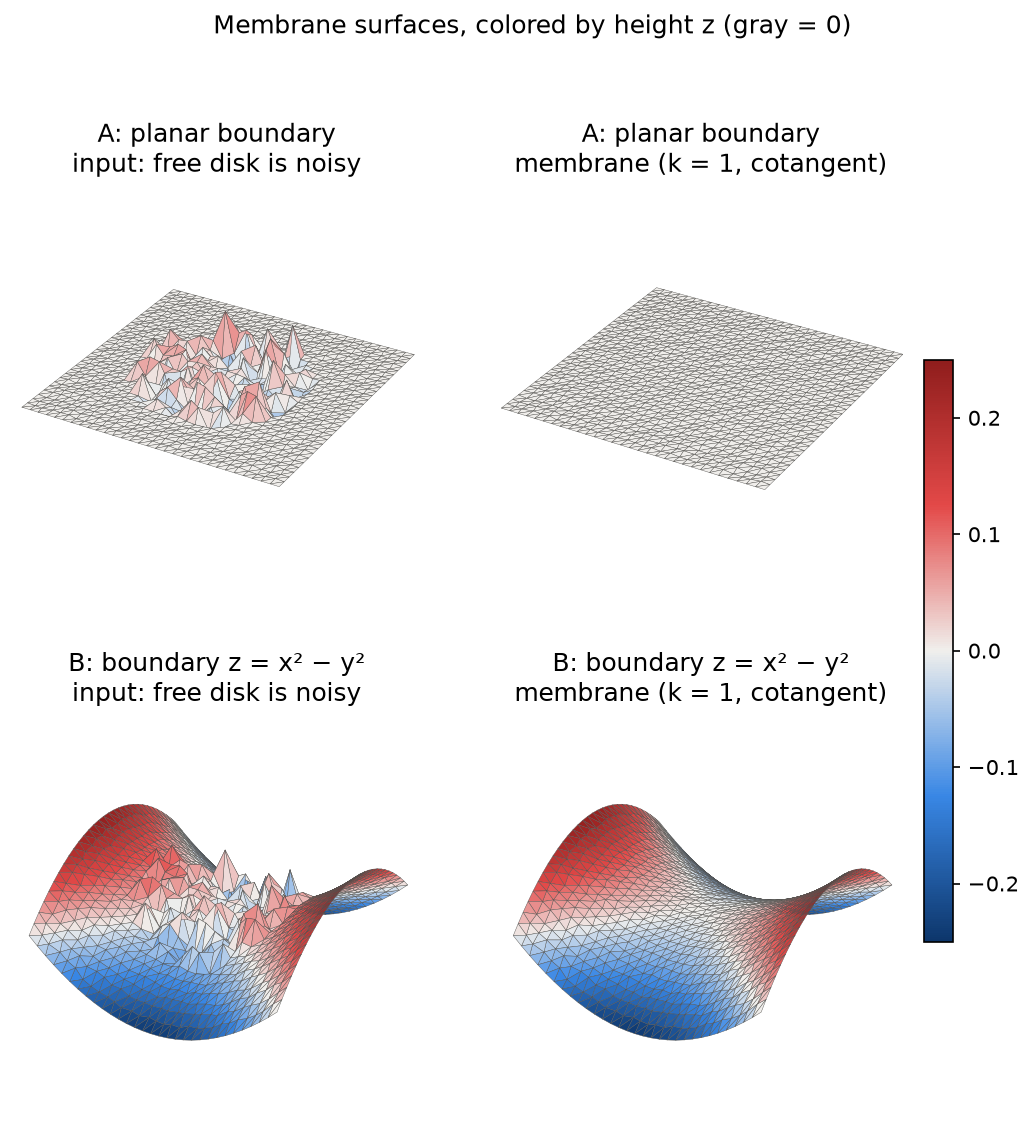
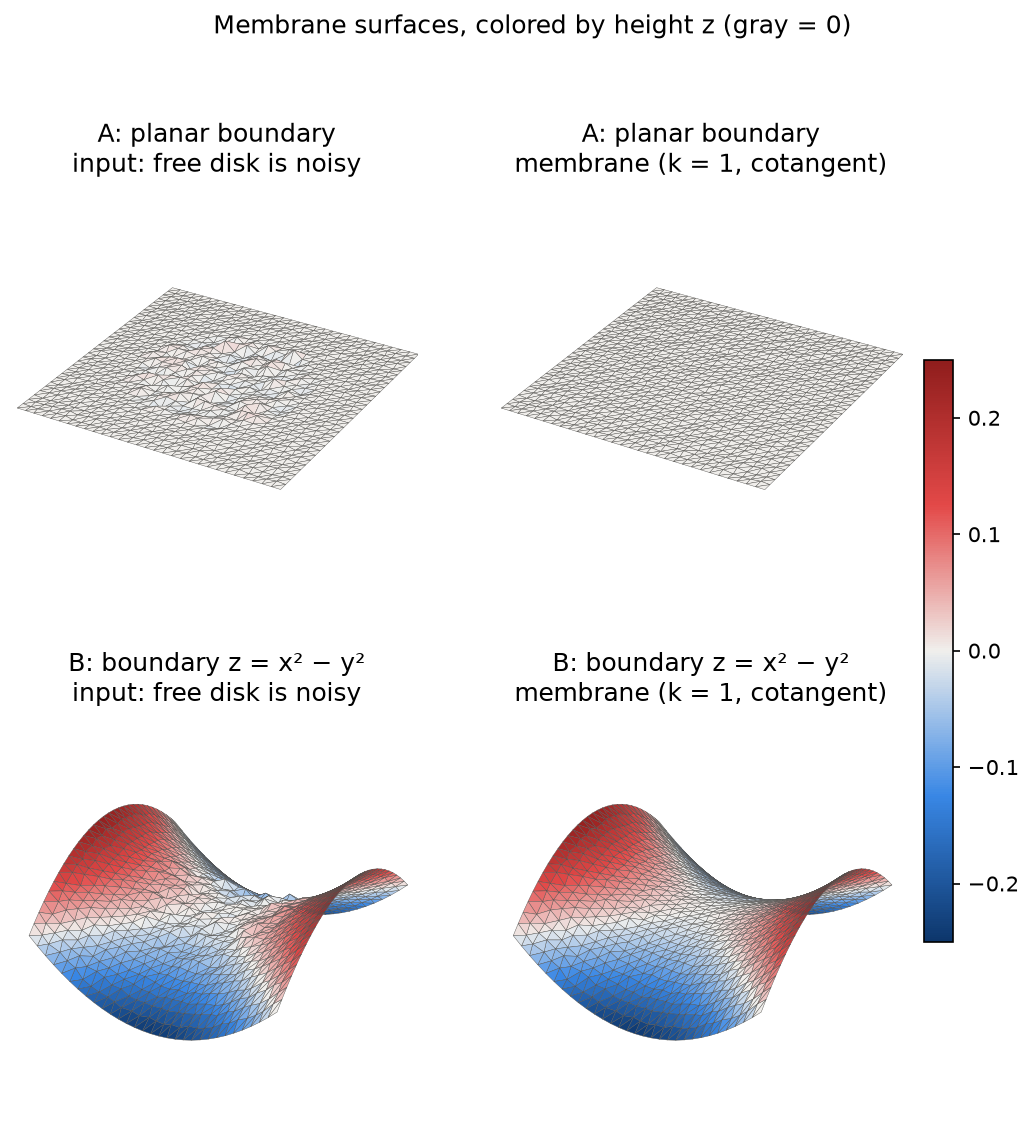
Remove V_ref; test case B against the right reference for each Laplacian (#10)
Uniform weights approximate the linearized membrane (Eq. 4.8) and converge to
x^2 - y^2; cotangent weights frozen from a smooth start approximate the minimal
surface (Eq. 4.7, H -> 0), which differs from x^2 - y^2 by a fixed gap.

diff --git a/examples/04_fairing.py b/examples/04_fairing.py
@@ -5,7 +5,7 @@ Run from the repository root:
     python examples/04_fairing.py
 
 Saves docs/img/09-sparsity.png, docs/img/10-membrane.png and
-docs/img/10-convergence.png.
+docs/img/10-two-membranes.png.
 """
 
 from pathlib import Path
@@ -19,6 +19,7 @@ from matplotlib.ticker import NullFormatter
 
 from fairing import mesh, viz
 from fairing.fairing import fairing_matrix, solve_fair
+from fairing.laplacian import mean_curvature
 
 IMG = Path(__file__).resolve().parents[1] / "docs" / "img"
 
@@ -49,17 +50,16 @@ def figure_sparsity():
 
 
 def disk_problem(n, heights, interior_noise, seed=0):
-    """Irregular grid on [-0.5, 0.5]^2; the disk of radius 0.3 is free.
+    """Irregular grid on [-0.5, 0.5]^2 whose disk of radius 0.3 is free.
 
-    Constrained vertices get z = heights(x, y); free ones start there plus noise.
-    Also returns the flat reference (z = 0) used to build the cotangent weights.
+    Every vertex gets z = heights(x, y); the free ones also get noise.
     """
-    V_ref, F = mesh.irregular_grid(n, n, jitter=0.15, seed=seed)
-    free = np.linalg.norm(V_ref[:, :2], axis=1) < 0.3
-    V = V_ref.copy()
+    V, F = mesh.irregular_grid(n, n, jitter=0.15, seed=seed)
+    r = np.linalg.norm(V[:, :2], axis=1)
+    free = r < 0.3
     V[:, 2] = heights(V[:, 0], V[:, 1])
     V[free, 2] += np.random.default_rng(seed).normal(0, interior_noise, free.sum())
-    return V, V_ref, F, free
+    return V, F, free, r
 
 
 flat = lambda x, y: 0 * x
@@ -69,9 +69,9 @@ saddle = lambda x, y: x**2 - y**2                    # harmonic in the plane
 def figure_membrane():
     """Issue #10: k = 1 with a planar boundary (case A) and a harmonic boundary (case B)."""
     meshes, scalars, titles = [], [], []
-    for name, heights, noise in (("A: planar boundary", flat, 0.05), ("B: boundary z = x² − y²", saddle, 0.05)):
-        V, V_ref, F, free = disk_problem(31, heights, noise)
-        W = solve_fair(V, F, free, 1, "cotan", V_ref=V_ref)
+    for name, heights in (("A: planar boundary", flat), ("B: boundary z = x² − y²", saddle)):
+        V, F, free, _ = disk_problem(31, heights, interior_noise=0.01)
+        W = solve_fair(V, F, free, 1, "cotan")
         meshes += [(V, F), (W, F)]
         scalars += [V[:, 2], W[:, 2]]
         titles += [f"{name}\ninput: free disk is noisy", f"{name}\nmembrane (k = 1, cotangent)"]
@@ -81,39 +81,53 @@ def figure_membrane():
     print("saved", IMG / "10-membrane.png")
 
 
-def figure_convergence():
-    """Issue #10: error of the harmonic case B as the grid is refined."""
+def figure_two_membranes():
+    """Issue #10: case B with uniform vs cotangent weights, as the grid is refined.
+
+    Left: distance to the harmonic graph z = x^2 - y^2 (the answer of Eq. 4.8 over the flat
+    (x, y) domain). Right: mean |H| (0 for the minimal surface of Eq. 4.7).
+    """
     ns = [11, 21, 41, 81, 161]
-    runs = [("cotangent, L from the flat reference", "cotan", True, "#1c5cab"),
-            ("uniform", "uniform", True, "#86b6ef"),
-            ("cotangent, L from the noisy input", "cotan", False, "#eb6834")]
     h = 1 / (np.array(ns) - 1)
-    fig, ax = plt.subplots(figsize=(6.4, 4.6))
-    for label, laplacian, use_ref, color in runs:
-        errors = []
+    runs = [("uniform (noisy start)", "uniform", 0.02, "#86b6ef"),
+            ("cotangent (smooth start)", "cotan", 0.0, "#1c5cab"),
+            ("cotangent (noisy start, σ = 0.02)", "cotan", 0.02, "#eb6834")]
+    fig, (ax_gap, ax_H) = plt.subplots(1, 2, figsize=(11.5, 4.6))
+    for label, laplacian, noise, color in runs:
+        gaps, Hs = [], []
         for n in ns:
-            V, V_ref, F, free = disk_problem(n, saddle, 0.02)
-            W = solve_fair(V, F, free, 1, laplacian, V_ref=V_ref if use_ref else None)
+            V, F, free, r = disk_problem(n, saddle, noise)
+            W = solve_fair(V, F, free, 1, laplacian)
             x, y, z = W[free].T
-            errors.append(np.abs(z - saddle(x, y)).max())
-        ax.loglog(h, errors, "o-", color=color, lw=2, ms=6, label=label)
-        if use_ref and laplacian == "cotan":
-            ax.loglog(h, errors[0] * (h / h[0]) ** 2, "--", color="#8a8984", lw=1.2, label="slope 2 (∝ h²)")
-    ax.xaxis.set_minor_formatter(NullFormatter())
-    ax.set_xlabel("grid spacing h")
-    ax.set_ylabel("max error |z − (x² − y²)| on the free disk")
-    ax.set_title("Case B: does the membrane converge to the exact answer?")
-    ax.grid(True, color="#e6e5e1", lw=0.8)
-    for side in ("top", "right"):
-        ax.spines[side].set_visible(False)
-    ax.legend(frameon=False, fontsize=9, loc="lower right")
+            gaps.append(np.abs(z - saddle(x, y)).max())
+            Hs.append(mean_curvature(W, F)[r < 0.25].mean())
+        ax_gap.loglog(h, gaps, "o-", color=color, lw=2, ms=6, label=label)
+        ax_H.loglog(h, Hs, "o-", color=color, lw=2, ms=6, label=label)
+    H_saddle = [mean_curvature(*disk_problem(n, saddle, 0.0)[:2])[disk_problem(n, saddle, 0.0)[3] < 0.25].mean()
+                for n in ns]
+    ax_H.loglog(h, H_saddle, "--", color="#8a8984", lw=1.5, label="the saddle x² − y² itself")
+
+    ax_gap.set_title("distance to the harmonic graph x² − y²")
+    ax_gap.set_ylabel("max |z − (x² − y²)| on the free disk")
+    ax_H.set_title("mean |H| on the free disk (minimal surface: 0)")
+    ax_H.set_ylabel("mean |H|")
+    for ax in (ax_gap, ax_H):
+        ax.set_xlabel("grid spacing h")
+        ax.xaxis.set_minor_formatter(NullFormatter())
+        ax.grid(True, color="#e6e5e1", lw=0.8)
+        for side in ("top", "right"):
+            ax.spines[side].set_visible(False)
+    ax_gap.legend(frameon=False, fontsize=9, loc="lower right")
+    ax_H.legend(frameon=False, fontsize=9, loc="upper right")
+    fig.suptitle("Case B: two different membranes. Uniform → harmonic graph (Eq. 4.8); "
+                 "cotangent → minimal surface (Eq. 4.7)", y=1.02)
     fig.tight_layout()
-    fig.savefig(IMG / "10-convergence.png", dpi=150, bbox_inches="tight")
-    print("saved", IMG / "10-convergence.png")
+    fig.savefig(IMG / "10-two-membranes.png", dpi=150, bbox_inches="tight")
+    print("saved", IMG / "10-two-membranes.png")
 
 
 if __name__ == "__main__":
     IMG.mkdir(parents=True, exist_ok=True)
     figure_sparsity()
     figure_membrane()
-    figure_convergence()
+    figure_two_membranes()

diff --git a/tests/test_fairing.py b/tests/test_fairing.py
@@ -4,7 +4,7 @@ import numpy as np
 import pytest
 
 from fairing.fairing import fairing_matrix, solve_fair
-from fairing.laplacian import LAPLACIANS
+from fairing.laplacian import LAPLACIANS, mean_curvature
 from fairing.mesh import add_noise, irregular_grid, k_ring
 
 
@@ -75,56 +75,69 @@ def test_fairing_matrix_k1_is_minus_M():
 # Membrane surface, k = 1 (Eq. 4.7-4.8)
 # ---------------------------------------------------------------------------
 
-def disk_problem(n, heights, interior_noise=0.02, seed=0):
+def disk_problem(n, heights, interior_noise, seed=0):
     """Irregular planar grid on [-0.5, 0.5]^2 whose disk of radius 0.3 is free.
 
-    The constrained vertices get z = heights(x, y); the free ones start at
-    heights(x, y) plus noise. Returns the input V, the flat reference V_ref
-    (same x, y, z = 0), F, and the free mask.
+    Every vertex gets z = heights(x, y); the free ones also get noise.
     """
-    V_ref, F = irregular_grid(n, n, jitter=0.15, seed=seed)
-    free = np.linalg.norm(V_ref[:, :2], axis=1) < 0.3
-    V = V_ref.copy()
+    V, F = irregular_grid(n, n, jitter=0.15, seed=seed)
+    r = np.linalg.norm(V[:, :2], axis=1)
+    free = r < 0.3
     V[:, 2] = heights(V[:, 0], V[:, 1])
     V[free, 2] += np.random.default_rng(seed).normal(0, interior_noise, free.sum())
-    return V, V_ref, F, free
+    return V, F, free, r
 
 
 flat = lambda x, y: 0 * x
-saddle = lambda x, y: x**2 - y**2                    # harmonic: 2 - 2 = 0
+saddle = lambda x, y: x**2 - y**2                    # harmonic in the plane: 2 - 2 = 0
 
 
 @pytest.mark.parametrize("laplacian", ["uniform", "cotan"])
-@pytest.mark.parametrize("use_ref", [False, True])
-def test_membrane_with_planar_boundary_is_exactly_planar(laplacian, use_ref):
-    # z = 0 on the boundary => z = 0 is the unique discrete harmonic function.
-    V, V_ref, F, free = disk_problem(21, flat, interior_noise=0.05)
-    W = solve_fair(V, F, free, 1, laplacian, V_ref=V_ref if use_ref else None)
+def test_case_A_planar_boundary_gives_an_exactly_planar_membrane(laplacian):
+    # z = 0 on the boundary => z = 0 is the unique solution, whatever the weights.
+    V, F, free, _ = disk_problem(21, flat, interior_noise=0.05)
+    W = solve_fair(V, F, free, 1, laplacian)
     assert np.abs(W[:, 2]).max() < 1e-12
 
 
-def test_cotan_membrane_keeps_planar_vertices_in_place_only_with_a_clean_reference():
-    # Linear precision (#6) holds for weights from the flat grid, not from the noisy input.
-    V, V_ref, F, free = disk_problem(21, flat, interior_noise=0.05)
-    moved = lambda W: np.abs(W[free, :2] - V[free, :2]).max()
-    assert moved(solve_fair(V, F, free, 1, "cotan", V_ref=V_ref)) < 1e-12
-    assert moved(solve_fair(V, F, free, 1, "cotan")) > 1e-3
+def test_case_A_cotan_weights_from_a_noisy_start_let_vertices_slide():
+    # The weights are frozen from the noisy input, which is not planar, so the cotangent
+    # Laplacian loses its linear precision there (#6) and x, y move. Uniform: no such effect.
+    V, F, free, _ = disk_problem(21, flat, interior_noise=0.05)
+    slide = lambda W: np.abs(W[free, :2] - V[free, :2]).max()
+    assert slide(solve_fair(V, F, free, 1, "cotan")) > 1e-3
 
 
-def saddle_error(n, laplacian, use_ref):
-    V, V_ref, F, free = disk_problem(n, saddle)
-    W = solve_fair(V, F, free, 1, laplacian, V_ref=V_ref if use_ref else None)
+def saddle_case(n, laplacian, interior_noise):
+    V, F, free, r = disk_problem(n, saddle, interior_noise)
+    W = solve_fair(V, F, free, 1, laplacian)
     x, y, z = W[free].T
-    return np.abs(z - saddle(x, y)).max()             # compare at the final (x, y)
+    gap = np.abs(z - saddle(x, y)).max()                       # compare at the final (x, y)
+    inner = r < 0.25                                           # away from the rim of the disk
+    return gap, mean_curvature(W, F)[inner].mean()
 
 
-@pytest.mark.parametrize("laplacian", ["uniform", "cotan"])
-def test_harmonic_boundary_error_shrinks_with_resolution(laplacian):
-    errors = [saddle_error(n, laplacian, use_ref=True) for n in (11, 21, 41)]
-    assert errors[0] > errors[1] > errors[2]
-    assert errors[2] < 5e-4
+def test_case_B_uniform_converges_to_the_harmonic_graph():
+    # Uniform weights ignore geometry; on this nearly regular grid they act like the flat
+    # (x, y) parameter domain of Eq. 4.8, whose exact answer is z = x^2 - y^2.
+    gaps = [saddle_case(n, "uniform", interior_noise=0.02)[0] for n in (11, 21, 41)]
+    assert gaps[0] > gaps[1] > gaps[2] and gaps[2] < 5e-4
 
 
-def test_cotan_weights_from_the_noisy_input_stop_the_convergence():
-    # Documented pitfall: with L built from the noisy input, the error stalls.
-    assert saddle_error(41, "cotan", use_ref=False) > 10 * saddle_error(41, "cotan", use_ref=True)
+def test_case_B_cotan_from_a_smooth_start_is_nearly_a_minimal_surface():
+    # Cotangent weights from the surface itself approximate the true membrane of Eq. 4.7,
+    # a minimal surface (H = 0). x^2 - y^2 is not one (|H| ~ 0.07), so a fixed gap remains.
+    V, F, free, r = disk_problem(41, saddle, interior_noise=0.0)
+    H_saddle = mean_curvature(V, F)[r < 0.25].mean()
+    gaps, H = zip(*[saddle_case(n, "cotan", interior_noise=0.0) for n in (21, 41, 81)])
+    assert all(h < 0.2 * H_saddle for h in H)                  # much closer to H = 0
+    assert all(5e-4 < g < 3e-3 for g in gaps)                  # a gap that does not vanish
+    assert max(gaps) / min(gaps) < 1.5                         # ... and does not depend on h
+
+
+def test_case_B_cotan_from_a_badly_damaged_start_is_corrupted():
+    # Documented pitfall: noise larger than the edges (sigma = 0.02 > h = 0.0125) gives
+    # cotangent weights from a crumpled surface, and the frozen weights crumple the result.
+    _, H_noisy = saddle_case(81, "cotan", interior_noise=0.02)
+    _, H_clean = saddle_case(81, "cotan", interior_noise=0.0)
+    assert H_noisy > 100 * H_clean

diff --git a/fairing/fairing.py b/fairing/fairing.py
@@ -34,7 +34,7 @@ def fairing_matrix(V, F, k, laplacian="cotan"):
     return ((-1) ** k * A).tocsr()
 
 
-def solve_fair(V, F, free_mask, k, laplacian="cotan", V_ref=None):
+def solve_fair(V, F, free_mask, k, laplacian="cotan"):
     """Move the free vertices so that ``L^k x = 0`` there; keep the others fixed.
 
     Splitting the unknowns into free (f) and constrained (c) vertices, the rows
@@ -47,13 +47,11 @@ def solve_fair(V, F, free_mask, k, laplacian="cotan", V_ref=None):
     constrained; it is factorized once with Cholesky and solved for x, y and z
     together.
 
-    ``L`` is built from ``V_ref`` if given, otherwise from ``V``. The
-    linearized energies of Sec. 4.3 are defined with respect to a fixed
-    parametrization, so the cotangent weights should come from a clean
-    reference shape: weights computed from a noisy or damaged input are wrong,
-    and the result inherits the error (see docs/phases/phase-4.md, #10).
-    The uniform weights do not depend on positions, so ``V_ref`` changes
-    nothing for them.
+    ``L`` is built once from the input geometry ``V`` and then frozen, which
+    is what makes the system linear. The cotangent weights therefore depend on
+    where the free vertices start: a smooth start gives a sensible result, a
+    badly damaged one can corrupt it (see docs/phases/phase-4.md, #10). The
+    uniform weights do not depend on positions at all.
 
     For ``C^(k-1)`` continuity at the border of the free region, the ``k``
     rings of vertices around it should be constrained (Sec. 4.3).
@@ -67,7 +65,7 @@ def solve_fair(V, F, free_mask, k, laplacian="cotan", V_ref=None):
     if free.all():
         raise ValueError("at least one vertex must be constrained, or L^k x = 0 has no unique solution")
 
-    A = fairing_matrix(V if V_ref is None else V_ref, F, k, laplacian)
+    A = fairing_matrix(V, F, k, laplacian)
     A_ff = A[free][:, free]
     A_fc = A[free][:, ~free]
     rhs = -(A_fc @ V[~free])                               # constrained values move to the right

diff --git a/docs/phases/phase-4.md b/docs/phases/phase-4.md
@@ -35,7 +35,7 @@ Fairing asks for Lᵏx = **0** (§4.3), so **b = 0**, and the term (−1)ᵏD⁻
 
   0 − Σᵢ∈C xᵢ aᵢ = **−A_fc x_c**,
 
-where A_fc collects those columns, restricted to the free rows. That is `fairing.py:73`. The factor (−1)ᵏ is not lost: `fairing_matrix` already multiplies the whole matrix by it, so A_fc carries it, and (−1)ᵏ·0 is still 0.
+where A_fc collects those columns, restricted to the free rows. That is `fairing.py:71`. The factor (−1)ᵏ is not lost: `fairing_matrix` already multiplies the whole matrix by it, so A_fc carries it, and (−1)ᵏ·0 is still 0.
 
 Compare with implicit smoothing (#8), where b ≠ 0. There the system (I − hλL)x' = x has b = x, and the code does compute D⁻¹b (`rhs = D_inv @ V`, `smoothing.py:76`). The two steps show the two halves of the formula. `solve_fair` handles only b = 0. A problem with b ≠ 0, such as the deformations mentioned on p. 61, would add (−1)ᵏ D_ff⁻¹ b_f to the right-hand side, using the D entries of the free rows.
 
@@ -43,11 +43,11 @@ Compare with implicit smoothing (#8), where b ≠ 0. There the system (I − hλ
 |---|---|---|
 | App. A.1, Eq. A.2 | M(DM)ᵏ⁻¹, built by repeated `A @ D @ M` | `fairing_matrix`, `fairing/fairing.py:33` |
 | App. A.1 ("Definiteness") | sign (−1)ᵏ | `fairing.py:34` |
-| App. A.1 ("Definiteness") | A_ff and A_fc: free rows, split columns | `solve_fair`, `fairing.py:71–72` |
-| App. A.1 | right-hand side −A_fc x_c | `fairing.py:73` |
-| App. A (sparse Cholesky) | factorize A_ff once, solve x, y, z together | `fairing.py:75` |
+| App. A.1 ("Definiteness") | A_ff and A_fc: free rows, split columns | `solve_fair`, `fairing.py:69–70` |
+| App. A.1 | right-hand side −A_fc x_c | `fairing.py:71` |
+| App. A (sparse Cholesky) | factorize A_ff once, solve x, y, z together | `fairing.py:73` |
 
-L is built from the input geometry, or from a reference shape `V_ref` if one is given (added in #10, where it turns out to matter). The starting positions of the free vertices enter only through the cotangent weights; the uniform weights do not depend on positions at all. If every vertex is free, the problem has no unique answer (constants solve it), and `solve_fair` raises a `ValueError`.
+L is built once from the input geometry and then frozen; that is what makes the system linear. The starting positions of the free vertices enter only through the cotangent weights, and #10 shows that this matters. The uniform weights do not depend on positions at all. If every vertex is free, the problem has no unique answer (constants solve it), and `solve_fair` raises a `ValueError`.
 
 Tests (`tests/test_fairing.py`), for k = 1, 2, 3 and both Laplacians: A_ff is symmetric, its smallest eigenvalue is positive, and a Cholesky factorization exists. The solution satisfies Lᵏx = 0 at the free vertices, to 10⁻⁹ relative to the size of Lᵏx on the input. Constrained vertices do not move; nothing free → V unchanged; everything free → error. For k = 1, A = −M.
 
@@ -65,41 +65,45 @@ Tests (`tests/test_fairing.py`), for k = 1, 2, 3 and both Laplacians: A_ff is sy
 
 ## #10 Membrane surface (k = 1)
 
-**Theory → code.** The membrane is the surface of minimal area spanning the fixed boundary (Eq. 4.7). Area is non-linear in x, so the book replaces it with the **Dirichlet energy** ∫‖x_u‖² + ‖x_v‖² du dv (Eq. 4.8), which is quadratic. Its minimizer satisfies **Δx = 0** (Euler–Lagrange, p. 59), discretized as **Lx = 0**: `solve_fair(..., k=1)`. Each coordinate of the result is a *discrete harmonic function*: every free vertex sits at the weighted average of its neighbors, with weights wᵢⱼ.
+**Theory → code.** `solve_fair(..., k=1)` solves **Lx = 0** on the free vertices: every free vertex ends up at the weighted average of its neighbors. The book reaches this equation in two steps (§4.3, p. 57–59), and the step in between is what this issue is really about.
 
-Two cases have exact answers:
-- **A, planar boundary.** z = 0 on all constrained vertices. Then z = 0 everywhere solves Lz = 0, and the solution is unique (A_ff is SPD), so the result is exactly flat, however noisy the free disk starts.
-- **B, boundary heights z = x² − y².** This function is harmonic in the plane (∂²/∂x² + ∂²/∂y² = 2 − 2 = 0), so the exact continuous membrane is z = x² − y². The discrete result should approach it as the grid is refined.
+**Two membranes.**
+- **Eq. 4.7, the true membrane:** the surface of *minimal area* spanning the boundary. Its condition is Δₛx = 0, with Δₛ the Laplace–Beltrami operator *of the result surface itself*. By Eq. 3.7 this means H = 0 everywhere: a **minimal surface**, like a soap film. The operator depends on the unknown surface, so the problem is non-linear.
+- **Eq. 4.8, the linearized membrane:** the book replaces area with the Dirichlet energy ∫‖x_u‖² + ‖x_v‖², whose derivatives are taken with respect to a **fixed parametrization** (u, v). Its solution is harmonic with respect to (u, v). In general it is a different surface, and not a minimal one.
 
-The setup (`tests/test_fairing.py`, `examples/04_fairing.py`): an irregular grid on [−0.5, 0.5]² whose disk of radius 0.3 is free. The free vertices start at the target height plus noise.
+**What the code does.** The book's discrete method (p. 59) is one linear solve, **Lx = 0, with L built once from the input mesh and frozen**. Which of the two membranes that approximates depends on where the weights come from:
+- **Uniform weights** ignore the geometry. Their implicit "parametrization" is the mesh connectivity. On our nearly regular grid that behaves like the flat (x, y) domain, so uniform fairing approximates **Eq. 4.8 over (x, y)**.
+- **Cotangent weights** are the Laplace–Beltrami operator of the *input surface*. When the input is already close to the answer, freezing them is a good approximation of Δₛ, and one solve lands close to **Eq. 4.7, the minimal surface**. When the input is badly damaged, the frozen weights describe a crumpled surface, and the result inherits the damage.
 
-**Which geometry is L built from?** This is the main lesson of this step. Eq. 4.8 measures derivatives with respect to a *fixed parametrization* (u, v). On a mesh, "the parametrization" is whatever geometry the cotangent weights are computed from. If they are computed from the noisy input, the noise leaks into the weights:
-- in case A, z is still exactly 0 (the weights do not matter when every boundary value is 0), but the free vertices slide in the plane by up to two grid spacings, because weights from a noisy mesh lose linear precision (#6);
-- in case B, the error stops shrinking (orange curve below).
-
-`solve_fair` therefore takes an optional **`V_ref`**: the geometry L is built from (default: `V` itself). Here `V_ref` is the clean flat grid, the natural parameter domain. With it, x and y stay exactly in place in case A (to 10⁻¹⁵), and case B converges.
+**The test cases.** An irregular grid on [−0.5, 0.5]² whose disk of radius 0.3 is free; the free vertices start at the target height, with or without noise.
+- **A, planar boundary.** z = 0 on all constrained vertices. Then z = 0 is the unique solution of Lz = 0, *whatever the weights*, so the result is exactly flat for both Laplacians.
+- **B, boundary heights z = x² − y².** This function is harmonic in the plane (∂²/∂x² + ∂²/∂y² = 2 − 2 = 0), so it is the exact answer of **Eq. 4.8 over the flat (x, y) domain**. But it is **not** a minimal surface: its mean curvature on the disk is |H| ≈ 0.07. So it is the right reference for the uniform weights, and the wrong one for the cotangent weights.
 
 | Book | Formula | Code |
 |---|---|---|
-| Eq. 4.8, p. 59 | Lx = 0 on the free vertices | `solve_fair(V, F, free, k=1, ...)` |
-| Eq. 4.8 ("parametrization") | weights from a reference shape | `V_ref`, `fairing/fairing.py:70` |
+| Eq. 4.8, p. 59 | Lx = 0 on the free vertices, L frozen from the input | `solve_fair(V, F, free, k=1)`, `fairing/fairing.py:68` |
+| Eq. 3.7 | H = ½‖Lx‖, to tell a minimal surface (H = 0) apart | `mean_curvature` |
 
-Tests: case A is flat to 10⁻¹² for both Laplacians, with and without `V_ref`. With `V_ref`, the cotangent result keeps the free vertices in place; without it, they move by more than 10⁻³. Case B errors shrink over n = 11, 21, 41 for both Laplacians. Without `V_ref`, the cotangent error at n = 41 is more than 10× larger than with it.
+Tests (`tests/test_fairing.py`):
+- **Case A:** flat to 10⁻¹² for both Laplacians. With cotangent weights from a noisy start, the free vertices also slide in the plane (by more than 10⁻³), because the noisy input is not planar and the weights lose linear precision (#6).
+- **Case B, uniform:** the distance to x² − y² shrinks over n = 11, 21, 41.
+- **Case B, cotangent from a smooth start:** mean |H| is below 20% of the saddle's, and the distance to x² − y² stays at a fixed gap between 5·10⁻⁴ and 3·10⁻³, independent of h.
+- **Case B, cotangent from a badly damaged start** (noise σ = 0.02, larger than the edge length at n = 81): mean |H| more than 100× larger than from a smooth start.
 
 **What the figures show.**
 
 ![Membrane surfaces, cases A and B](../img/10-membrane.png)
 
-`docs/img/10-membrane.png`, colored by height (gray = 0). Top: the noisy disk (left) becomes exactly flat (right). Bottom: with saddle-shaped boundary heights, the noisy disk becomes a smooth saddle that continues the surrounding surface. Note the C⁰ joint: the membrane matches the *positions* of the boundary, not its slope. In case B the slope happens to match too, because x² − y² is itself harmonic, but #11 will show the kink in general.
+`docs/img/10-membrane.png`, colored by height (gray = 0), cotangent weights, one solve. Top: the noisy disk becomes exactly flat. Bottom: with saddle-shaped boundary heights, the noisy disk becomes a smooth surface continuing the boundary. The joint is C⁰: a membrane matches the boundary *positions*, not its slope; #11 shows the kink.
 
-![Convergence of the harmonic case](../img/10-convergence.png)
+![Two different membranes](../img/10-two-membranes.png)
 
-`docs/img/10-convergence.png`: the maximum error |z − (x² − y²)| on the free disk, measured at the final (x, y), versus grid spacing h, from 11 × 11 to 161 × 161 vertices.
-- **Cotangent, L from the flat reference (dark blue):** follows the h² guide; the error drops by about 4× per halving of h (from 2.7·10⁻⁴ to 2·10⁻⁶).
-- **Uniform (light blue):** also converges here, but more slowly (about h^1.5) and with 5–12× larger errors; it also slides the free vertices in the plane. The jitter is mild, so the uniform weights are not far off.
-- **Cotangent, L from the noisy input (orange):** stuck around 2·10⁻³ at every resolution. The noise is the same relative size at every resolution, so the weight errors never go away.
+`docs/img/10-two-membranes.png`: case B as the grid is refined from 11² to 161² vertices.
+- *Left, distance to the harmonic graph x² − y².* Uniform (light blue) converges to it. Cotangent from a smooth start (dark blue) stays at a fixed gap of about 1.3·10⁻³: it is converging to a *different* surface.
+- *Right, mean |H| on the disk.* Uniform has exactly the saddle's curvature (dashed): it *is* the harmonic graph, and not a minimal surface. Cotangent from a smooth start goes to H = 0 like h: it is the minimal surface, and the 1.3·10⁻³ gap on the left is the distance between the two membranes.
+- *Orange, cotangent from a noisy start.* Noise of fixed size σ = 0.02 becomes larger than the edges as h shrinks. The frozen weights then describe a crumpled surface, and the result's curvature explodes (mean |H| ≈ 47 at 161²), even though its heights stay within 2·10⁻³ of the saddle.
 
 **Pitfalls.**
-- *The weights come from somewhere.* The fairing equations are linear only because the weights are frozen. Freezing them on a damaged surface (noise, a crude hole patch) freezes the damage into the result. Use a clean reference when one exists (a parameter domain, the original surface). When none exists, use the uniform weights, which do not depend on geometry, or iterate (re-solve with weights from the previous result).
-- *A smooth-looking result can still be wrong.* The orange case looks perfectly fine in a picture. Only the convergence test against an exact answer reveals that it never converges.
-- *Measure the error at the final (x, y).* The free vertices may move in x and y too (uniform, or cotan from a noisy input), so the target height must be evaluated at their new position, not the old one.
+- *An "exact answer" belongs to a specific problem.* x² − y² is exact for Eq. 4.8 over the flat (x, y) domain, not for Eq. 4.7. A first version of this step compared the cotangent result against it, concluded "it does not converge", and "fixed" this by building the weights from the flat grid. That only forced the cotangent solver to answer Eq. 4.8, and such a flat reference does not exist for a real mesh with a hole. It was removed. The correct check for the cotangent membrane is H → 0.
+- *The weights are frozen from the input.* Linearity comes from computing L once. With cotangent weights, a smooth start gives a sensible result in one solve; a start damaged at the scale of the edges does not. Height errors alone can hide this (orange: heights within 2·10⁻³, curvature 47); check H, or look at the mesh. The book's method for hole filling, and ways to obtain good weights without a reference, are discussed in #14.
+- *Measure at the final (x, y).* The free vertices can move in x and y too, so the target height must be evaluated at their new position.

diff --git a/docs/PROGRESS.md b/docs/PROGRESS.md
@@ -23,7 +23,7 @@
 - **Explicit smoothing rebuilds L every step** (mean curvature flow for cotan). `explicit_step_limit` = 2/(λ|μ_min|), via `eigsh` on the symmetric D^½MD^½, with a fixed start vector so figures are reproducible.
 - **Implicit smoothing solves the symmetric (D⁻¹ − hλM)x' = D⁻¹x** with `factorized` (SuperLU), one factorization per step reused for x, y, z; L rebuilt each step, as in the explicit version.
 - **Solvers: Cholesky for fairing only.** From #9 on, the fairing solver uses a sparse Cholesky factorization (CHOLMOD, `sksparse.cholmod.cho_factor`), as App. A recommends for SPD systems. Implicit smoothing (#8) deliberately keeps SciPy's LU (`factorized`) and is not migrated. The contrast is part of the study.
-- **Fairing:** `solve_fair` builds A = (−1)ᵏM(DM)ᵏ⁻¹ from `V_ref` if given (else the input V), solves A_ff x_f = −A_fc x_c with `cho_factor`, takes a boolean `free_mask`, and refuses an all-free mask.
+- **Fairing:** `solve_fair` builds A = (−1)ᵏM(DM)ᵏ⁻¹ once from the input V (book's linear method), solves A_ff x_f = −A_fc x_c with `cho_factor`, takes a boolean `free_mask`, and refuses an all-free mask.
 - **Noise is measured by `roughness`** (mean angle between adjacent face normals), not by the radius spread, which mixes noise with shape change.
 - **Plots:** sequential blue for magnitudes, blue–gray–red for signed values; compared panels share one scale; NaN = "not shown" (gray), used for boundary vertices; planar meshes drawn from above.
 
@@ -33,7 +33,8 @@
 - The uniform ‖Lx‖ is a length (≈ 0.12·h), not a curvature; only zero vs non-zero is comparable with the cotangent ‖Lx‖.
 - **Explicit cotangent smoothing is stiff:** stable h = 2.7·10⁻⁵ on the 24×48 UV sphere (uniform: 1.34), set by the pole triangles. Laplacian flow shrinks (r² = r₀² − 4λt on a sphere); the uniform flow also distorts the shape.
 - Implicit smoothing is stable for any h but still shrinks (radius × 1/(1 + 2hλ) on the unit sphere); cotan leaves tangential irregularity untouched (roughness floor ≈ 0.088).
-- **Cotan weights from a noisy input freeze the noise in:** the membrane stops converging (≈ 2·10⁻³) and free vertices slide in the plane. Pass a clean `V_ref` (e.g. the flat parameter domain).
+- **Two membranes:** uniform ≈ Eq. 4.8 (harmonic in the connectivity/parameter domain; → x² − y² in case B); cotan from a smooth start ≈ Eq. 4.7 (minimal surface, H → 0, 1.3·10⁻³ from x² − y²). Cotan weights frozen from an input damaged at edge scale corrupt the result (|H| ≈ 47).
+- **Book methods only (user decision):** no weight refresh or reference geometry for now; how to get good cotan weights for a real hole is deferred to #14.
 - scikit-sparse has no wheels: install SuiteSparse first (`brew install suite-sparse` / `apt install libsuitesparse-dev`). On macOS also set `SUITESPARSE_*_DIR` and `CPLUS_INCLUDE_PATH` (README), or clang++ cannot find `<complex>`.
 - Graph distance is not Euclidean: a band of k fixed rings can vary in physical width on irregular meshes.
 - Colored matplotlib surfaces are unlit, and face colors average out single-vertex outliers: use numbers for quantitative claims.
